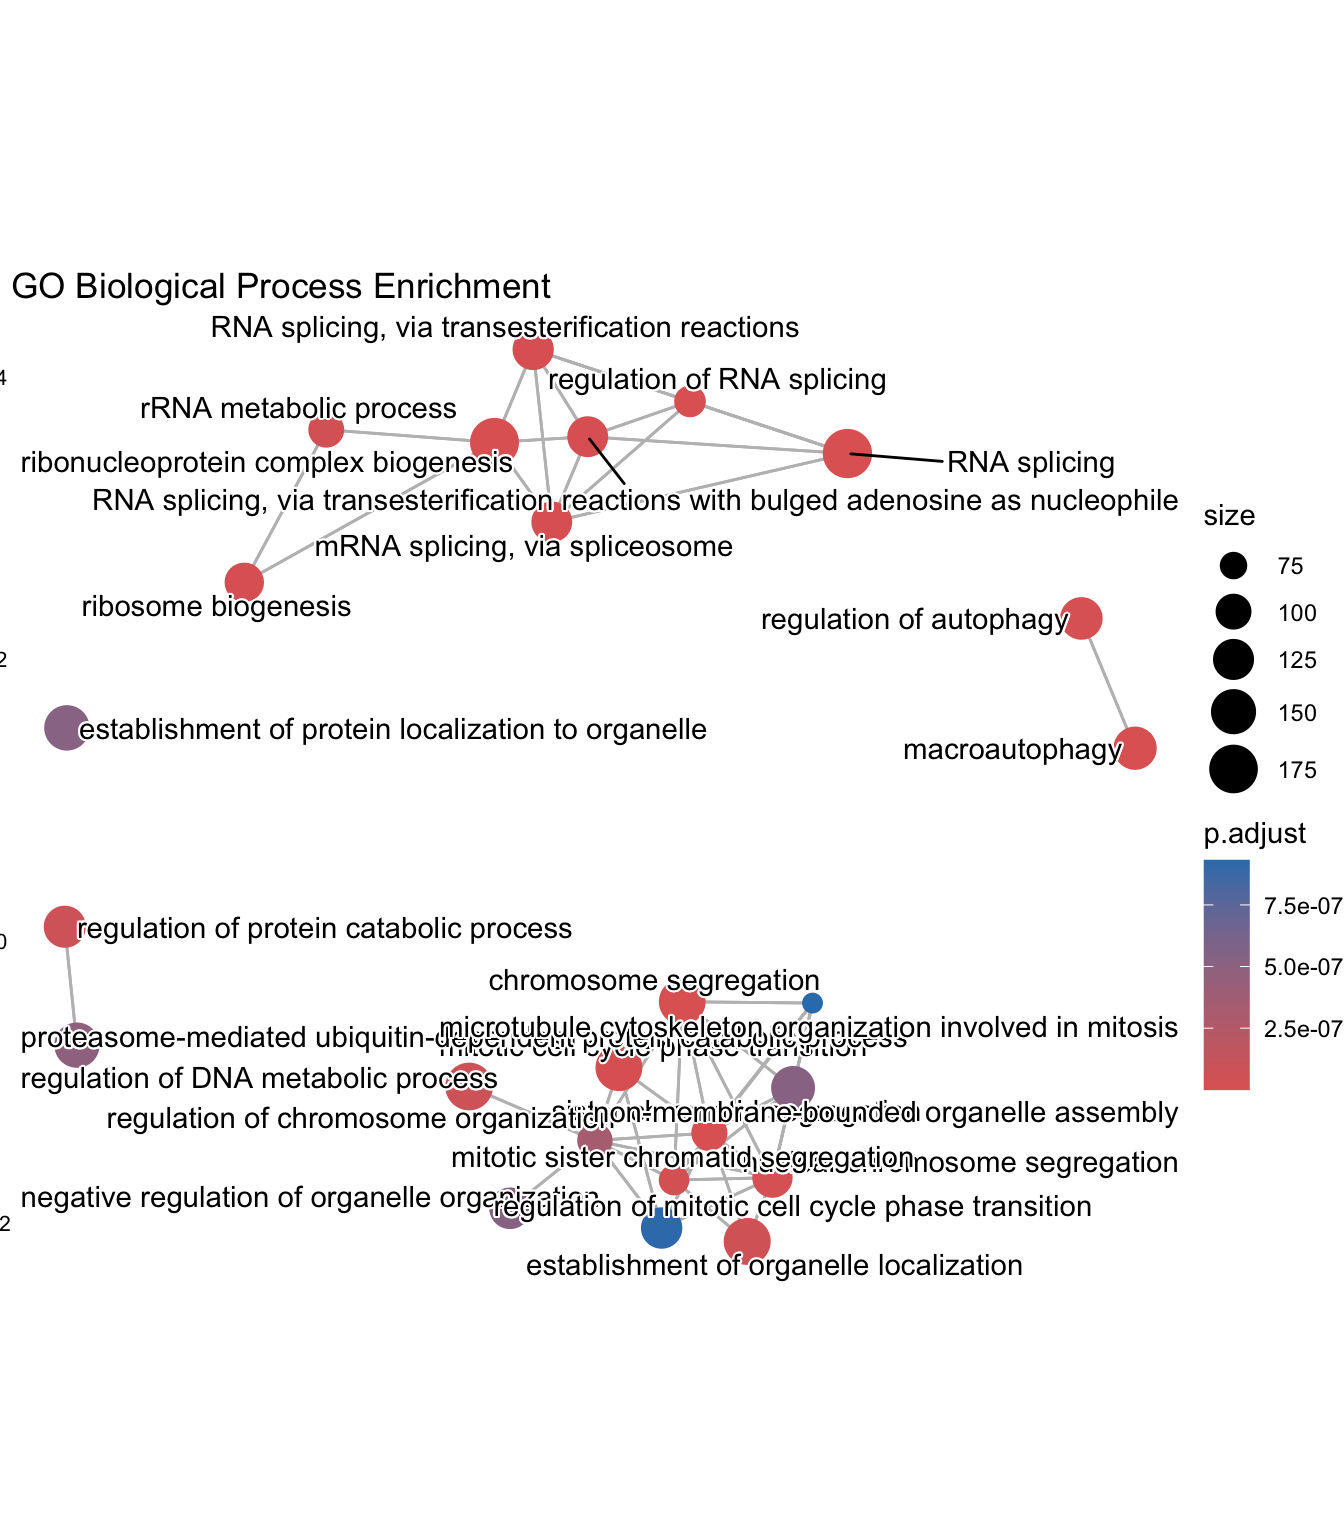
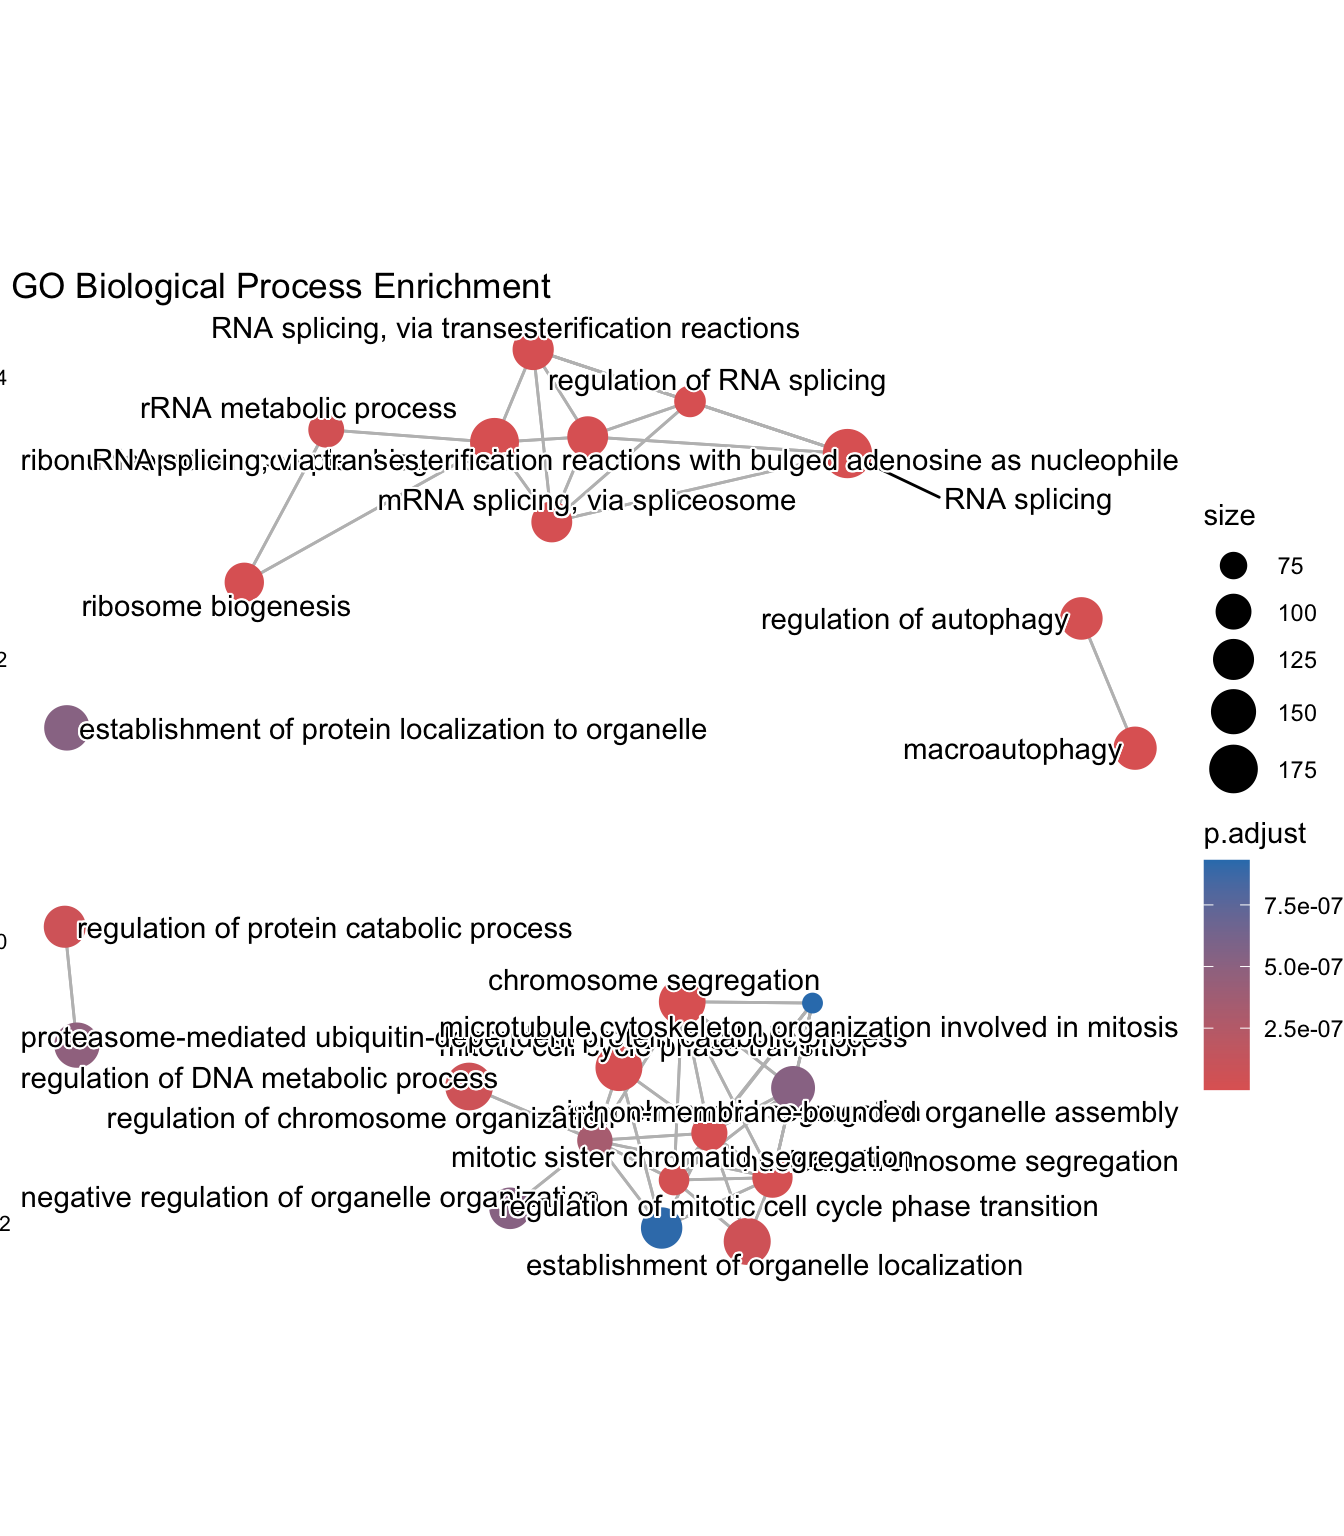
Update link

diff --git a/docs/05-HW.html b/docs/05-HW.html
@@ -376,7 +376,7 @@ ul.task-list li input[type="checkbox"] {
 <p>The two datasets below are available as Bioconductor packages. Read the package vignettes for each dataset to learn more about the experimental design and how to access the data in R.</p>
 <section id="airway-dataset" class="level3">
 <h3 class="anchored" data-anchor-id="airway-dataset">Airway dataset</h3>
-<p>The [airway]https://www.bioconductor.org/packages/release/data/experiment/html/airway.html) dataset contains RNA-seq data from human airway smooth muscle cells treated with dexamethasone (a synthetic glucocorticoid) or left untreated.</p>
+<p>The <a href="https://www.bioconductor.org/packages/release/data/experiment/html/airway.html">airway</a> dataset contains RNA-seq data from human airway smooth muscle cells treated with dexamethasone (a synthetic glucocorticoid) or left untreated.</p>
 </section>
 <section id="pasilla-dataset" class="level3">
 <h3 class="anchored" data-anchor-id="pasilla-dataset">Pasilla dataset</h3>

diff --git a/docs/05-deseq.html b/docs/05-deseq.html
@@ -822,7 +822,7 @@ ENSG00000000938          0          0</code></pre>
 <i class="fas fa-book"></i> Further Learning
 </h2>
 <p>In this example, we created our DESeq dataset from a tximport object. But what if we already have a read count table or used a different workflow to generate counts?</p>
-<p>DESeq2 has the functions <code>DESeqDataSetFromMatrix()</code> and <code>DESeqDataFromHTSeqCount</code> to create a DESeq dataset from a count matrix or HTSeq-count output files respectively. You can read more about these in the <a href="https://bioconductor.org/packages/devel/bioc/vignettes/DESeq2/inst/doc/DESeq2.html#count-matrix-input">DESeq2 vignette</a>.</p>
+<p>DESeq2 has the functions <code>DESeqDataSetFromMatrix()</code> and <code>DESeqDataFromHTSeqCount()</code> to create a DESeq dataset from a count matrix or HTSeq-count output files respectively. You can read more about these in the <a href="https://bioconductor.org/packages/devel/bioc/vignettes/DESeq2/inst/doc/DESeq2.html#count-matrix-input">DESeq2 vignette</a>.</p>
 </div>
 <section id="deseq2-design-formula" class="level3">
 <h3 class="anchored">DESeq2 design formula</h3>